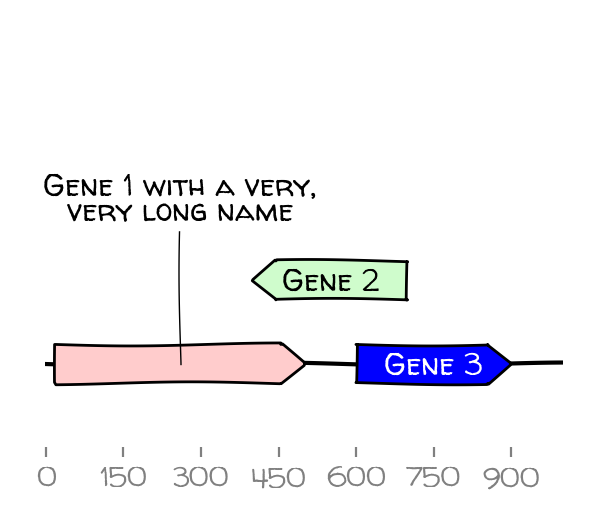
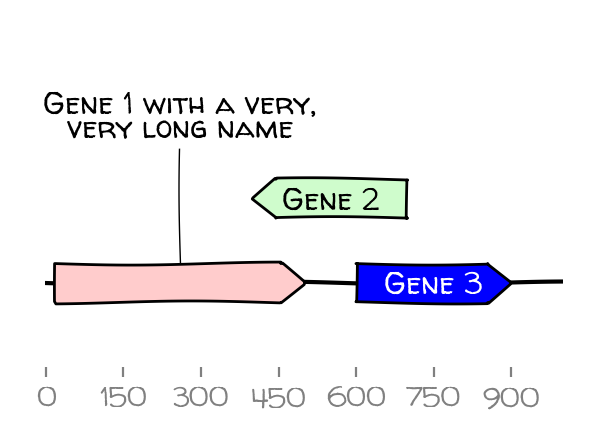
better auto-ymax, now accounting for un-elevated outline annotations

diff --git a/dna_features_viewer/GraphicRecord/MatplotlibPlottableMixin.py b/dna_features_viewer/GraphicRecord/MatplotlibPlottableMixin.py
@@ -57,6 +57,7 @@ class MatplotlibPlottableMixin:
         annotations_max_level,
         auto_figure_height=False,
         ideal_yspan=None,
+        annotations_are_elevated=True
     ):
         """Prettify the figure with some last changes.
         
@@ -87,7 +88,10 @@ class MatplotlibPlottableMixin:
         annotation_height = self.determine_annotation_height(None)
         features_ymax = self.feature_level_height * (features_levels + 1)
         annotations_ymax = annotation_height * annotations_max_level
-        ymax = features_ymax + annotations_ymax
+        if annotations_are_elevated:
+            ymax = features_ymax + annotations_ymax
+        else:
+            ymax = max(features_ymax, annotations_ymax) + 1
         ymin = -1
 
         # ymax could be even bigger if a "ideal_yspan" has been set.
@@ -501,11 +505,11 @@ class MatplotlibPlottableMixin:
                 feature.data["feature"].x_center, feature.data["feature_level"]
             )
 
-            # PLOT THE LABEL-TO
+            # PLOT THE LABEL-TO-FEATURE LINK
             link_color = feature.label_link_color
             if link_color == "auto":
                 link_color = change_luminosity(feature.color, luminosity=0.2)
-            ax.plot([x, fx], [new_y, fy], c=link_color, lw=0.5, zorder=1)
+            ax.plot([x, fx], [new_y, fy], c=link_color, lw=0.5, zorder=-10)
             labels_data[feature.data["feature"]] = dict(
                 feature_y=fy, annotation_y=new_y
             )
@@ -519,6 +523,7 @@ class MatplotlibPlottableMixin:
             annotations_max_level=max_annotations_level,
             auto_figure_height=auto_figure_height,
             ideal_yspan=ideal_yspan,
+            annotations_are_elevated=elevate_outline_annotations
         )
         return ax, (features_levels, labels_data)
 

diff --git a/examples/overview_and_detail.py b/examples/overview_and_detail.py
@@ -4,7 +4,7 @@ detail of a sub-segment on the right."""
 from dna_features_viewer import GraphicFeature, GraphicRecord
 import matplotlib.pyplot as plt
 
-record = GraphicRecord(sequence=250*"ATGC", features=[
+record = GraphicRecord(sequence=250 * "ATGC", features=[
     GraphicFeature(start=10, end=20, strand=+1, color="#ffd700",
                    label="Small feature"),
     GraphicFeature(start=20, end=500, strand=+1, color="#ffcccc",
@@ -14,10 +14,10 @@ record = GraphicRecord(sequence=250*"ATGC", features=[
     GraphicFeature(start=600, end=900, strand=+1, color="#ccccff",
                    label="Gene 3")
 ])
-zoom_start, zoom_end = 398, 428 # coordinates of the "detail"
+zoom_start, zoom_end = 398, 428  # coordinates of the "detail"
 cropped_record = record.crop((zoom_start, zoom_end))
 
-fig, (ax1, ax2) = plt.subplots(1, 2, figsize=(14, 3))
+fig, (ax1, ax2) = plt.subplots(1, 2, figsize=(14, 2))
 
 # PLOT THE WHOLE SEQUENCE
 

diff --git a/dna_features_viewer/CircularGraphicRecord/CircularGraphicRecord.py b/dna_features_viewer/CircularGraphicRecord/CircularGraphicRecord.py
@@ -90,6 +90,7 @@ class CircularGraphicRecord(GraphicRecord):
         annotations_max_level,
         auto_figure_height=False,
         ideal_yspan=None,
+        annotations_are_elevated=True
     ):
         """Final display range and figure dimension tweakings."""
         annotation_height = self.determine_annotation_height(
